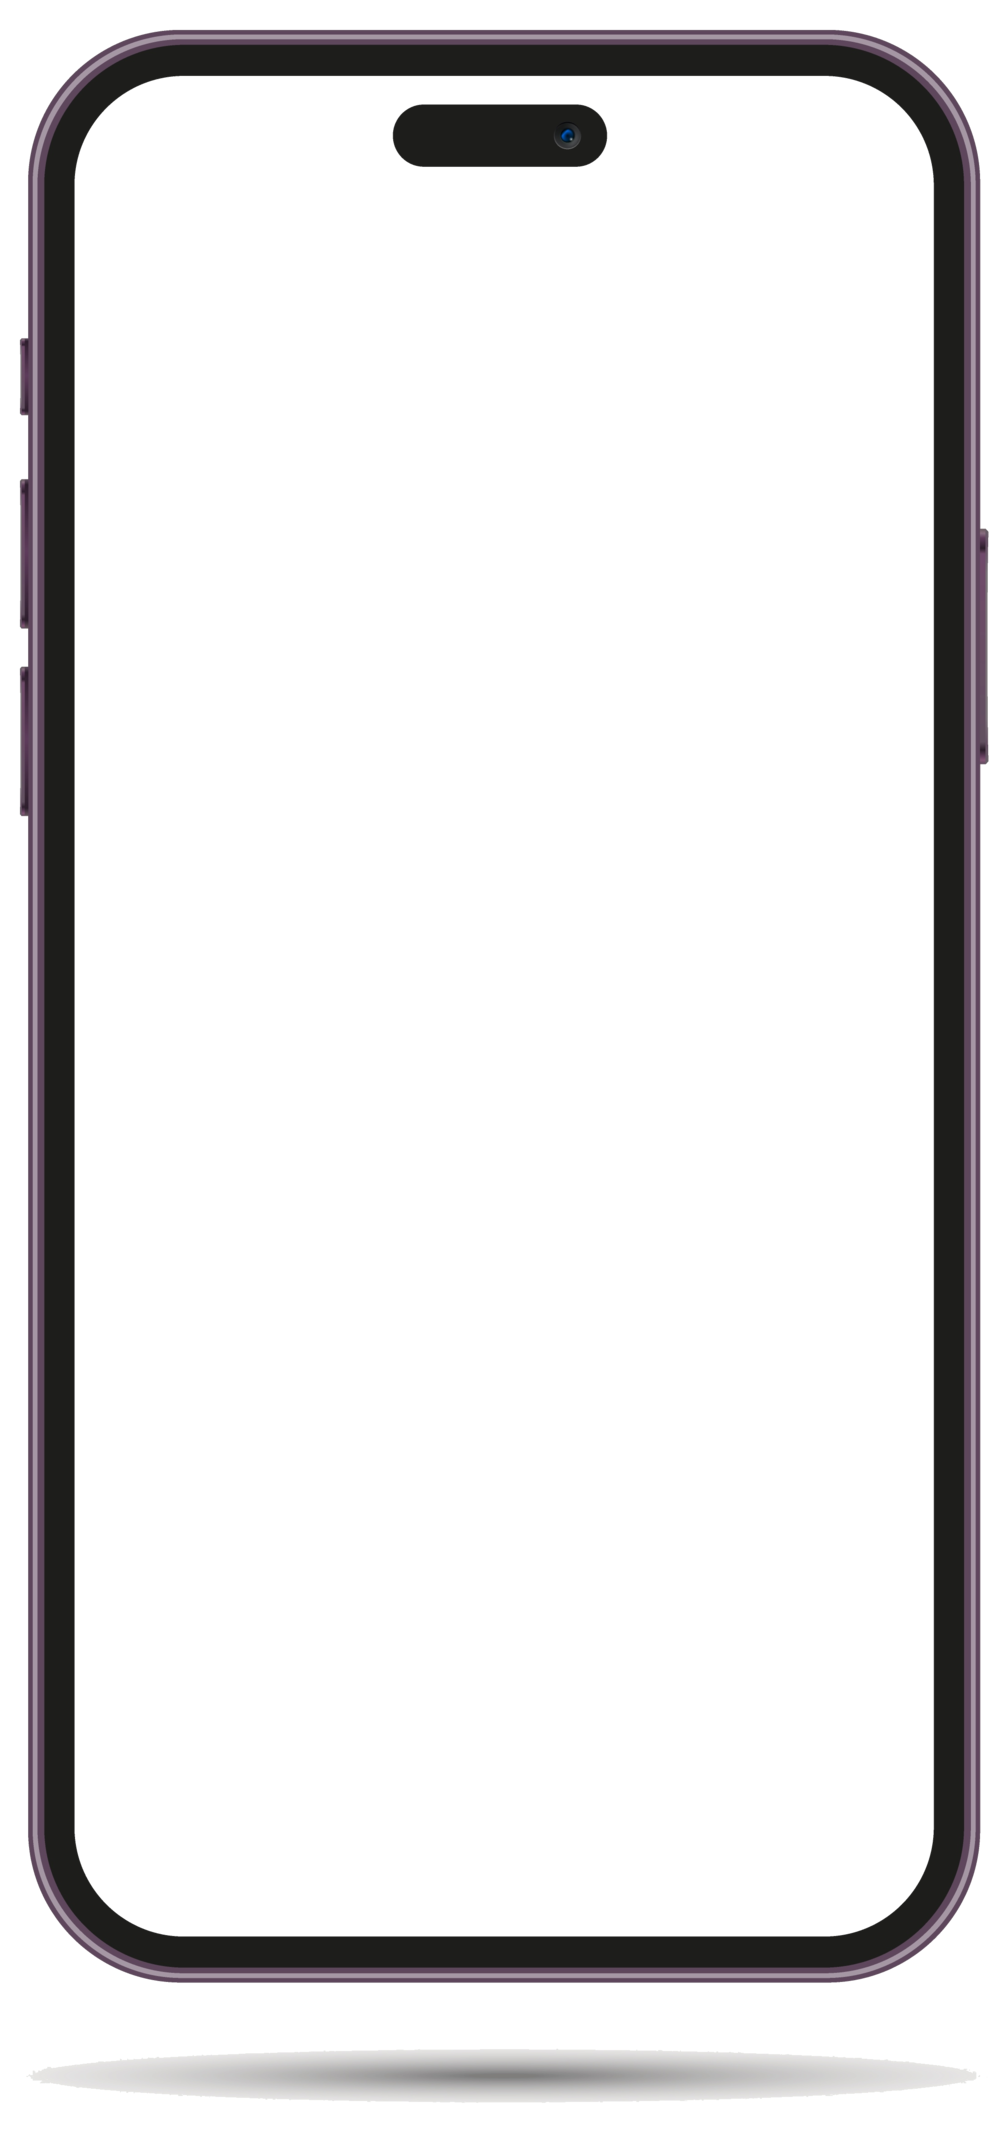
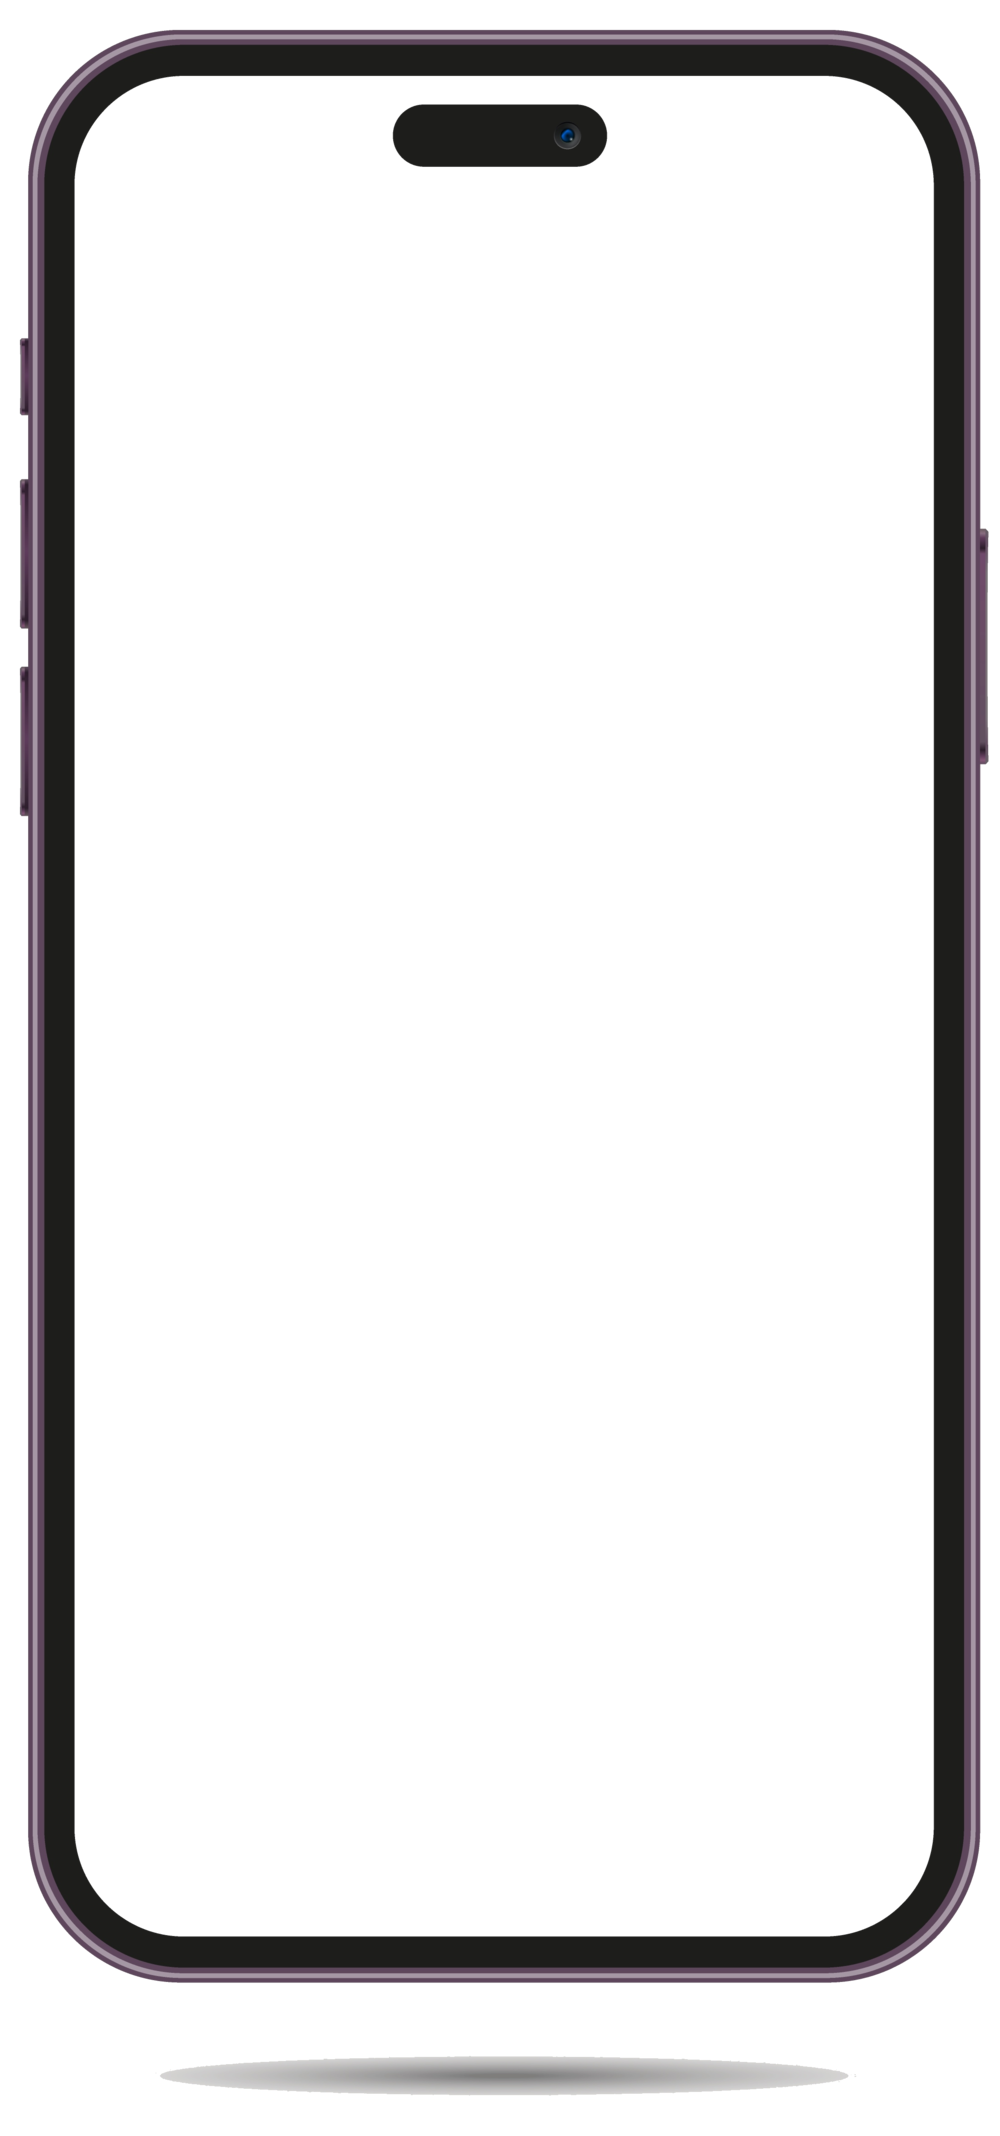
Fix mockup fill/shadow and stop reusing photos.
Fill the phone screen edge-to-edge, replace drop-shadow with a soft oval, and assign each Pexels image once.

Changed region(s): [[0.031, 0.9579, 0.961, 0.9888]]

diff --git a/src/config/photos.ts b/src/config/photos.ts
@@ -1,0 +1,14 @@
+/**
+ * Each Pexels photo is assigned to exactly one place on the page.
+ */
+import photoChat from "../assets/photos/scene-chat.jpg"; // 8957072 — Experience: Chat
+import photoStories from "../assets/photos/scene-stories.jpg"; // 9320841 — Experience: Stories
+import photoProfiles from "../assets/photos/scene-profiles.jpg"; // 5677481 — Experience: Profiles
+import photoHero from "../assets/photos/person-jules.jpg"; // 8602629 — Hero phone only
+
+export const photos = {
+  heroPhone: photoHero,
+  experienceChat: photoChat,
+  experienceStories: photoStories,
+  experienceProfiles: photoProfiles,
+} as const;
